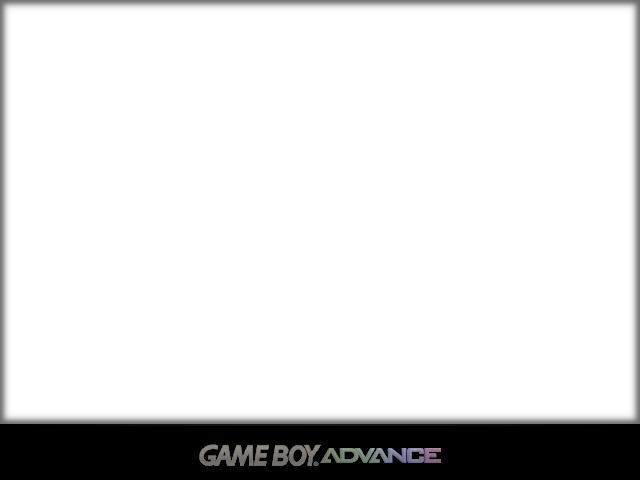
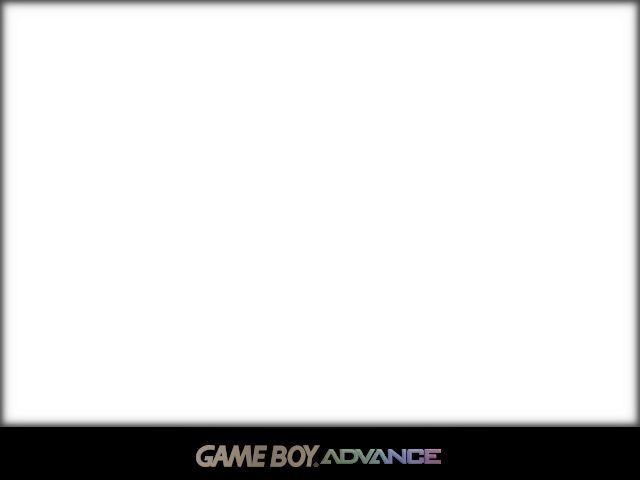
Updated GBA, added alternative GBA version for SP, both by mugwomp93

Changed region(s): [[0.0, 0.8438, 1.0, 1.0]]

diff --git a/README.md b/README.md
@@ -34,6 +34,7 @@ All 19:9 bezels have been adopted from [Batocera Bezels](https://github.com/bato
 | MAME (vertical) | `fbneo-90-640x480`, `fbneo-270-640x480` | by [fabricecaruso](https://github.com/fabricecaruso) for [Batocera Bezels](https://github.com/batocera-linux/batocera-bezel), adopted by [chrizzo-hb](https://github.com/chrizzo-hb) to 640x480 scale for vertical aspect ratio |
 | Gameboy | `gb-640x480` | Perfect DMG-EX (no grid) by [mugwomp93](https://github.com/mugwomp93) |
 | Gameboy Advance | `gba-640x480` | Perfect GBA (no grid) by [mugwomp93](https://github.com/mugwomp93) |
+| Gameboy Advance SP (alternative) | `gba-alt-640x480` | Perfect GBA (no grid) by [mugwomp93](https://github.com/mugwomp93) |
 | Gameboy Color | `gbc-640x480` | Perfect GBC (no grid) by [mugwomp93](https://github.com/mugwomp93) |
 | Lynx | `lynx-640x480` | Overlay by [drkhrse](https://github.com/drkhrse/drkhrse_miyoo_bezels), converted to Batocera format by [nvitaterna](https://github.com/nvitaterna/batocera_4_3_handheld_bezels) |
 | Megaduck | `megaduck-640x480` | Overlay by [drkhrse](https://github.com/drkhrse/drkhrse_miyoo_bezels), converted to Batocera format by [chrizzo-hb](https://github.com/chrizzo-hb) |
